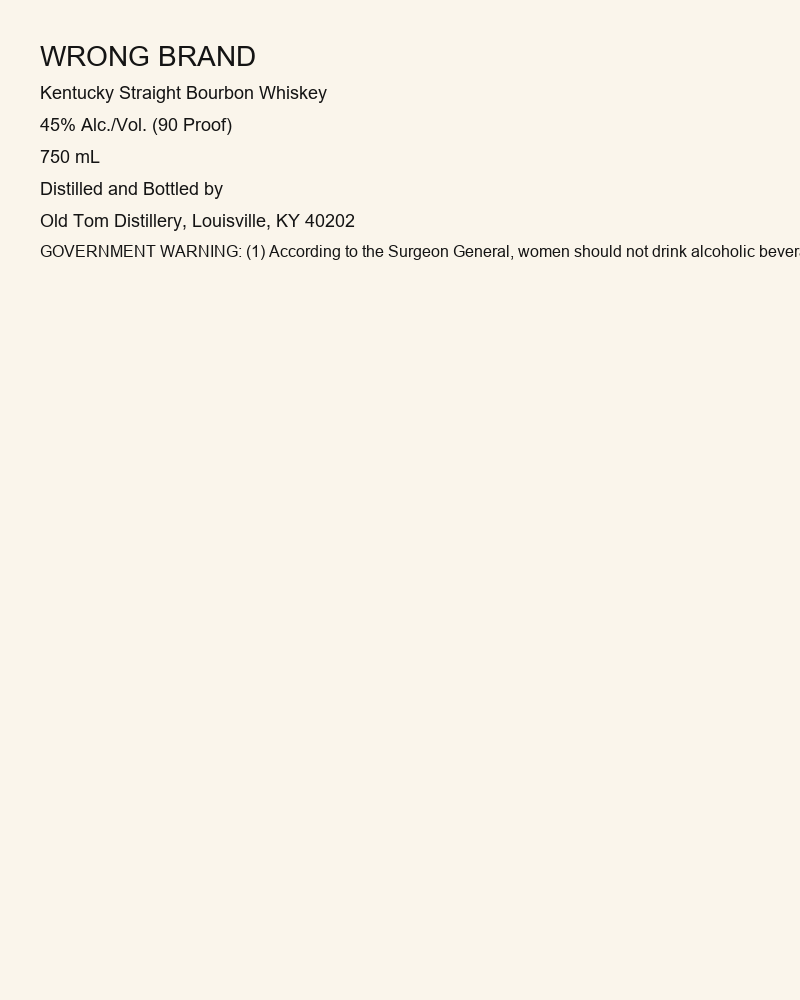
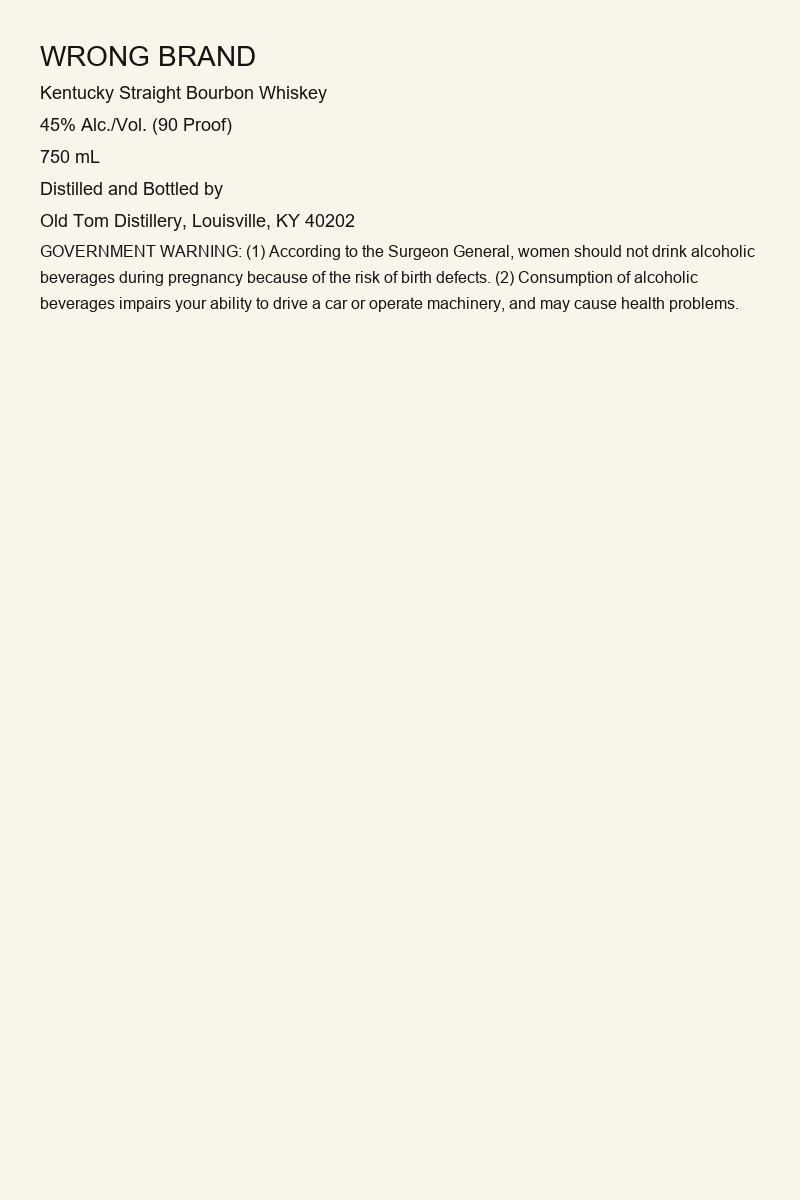
fix: wrap label warning text for production Tesseract OCR
Regenerate fixture PNGs with word-wrapped government warning lines so Render Tesseract captures full text. Move CI workflow to repo root .github/workflows so GitHub Actions runs on push.

Changed region(s): [[0.0312, 0.031, 1.0, 0.279]]

diff --git a/app/scripts/generate_fixtures.py b/app/scripts/generate_fixtures.py
@@ -32,17 +32,39 @@ def _font(size: int):
         return ImageFont.load_default()
 
 
-def draw_label(lines: list[str], path: Path, width: int = 800, height: int = 1000) -> None:
+def _wrap_line(line: str, font: ImageFont.FreeTypeFont | ImageFont.ImageFont, draw: ImageDraw.ImageDraw, max_width: int) -> list[str]:
+    words = line.split()
+    if not words:
+        return [line]
+    wrapped: list[str] = []
+    current = words[0]
+    for word in words[1:]:
+        candidate = f"{current} {word}"
+        bbox = draw.textbbox((0, 0), candidate, font=font)
+        if bbox[2] - bbox[0] <= max_width:
+            current = candidate
+        else:
+            wrapped.append(current)
+            current = word
+    wrapped.append(current)
+    return wrapped
+
+
+def draw_label(lines: list[str], path: Path, width: int = 800, height: int = 1200) -> None:
     img = Image.new("RGB", (width, height), color=(250, 245, 235))
     draw = ImageDraw.Draw(img)
-    y = 40
+    margin = 40
+    max_text_width = width - (margin * 2)
+    y = margin
     for i, line in enumerate(lines):
         size = 28 if i == 0 else 18
         if line.startswith("GOVERNMENT WARNING"):
             size = 16
         font = _font(size)
-        draw.text((40, y), line, fill=(20, 20, 20), font=font)
-        y += size + 14
+        for wrapped in _wrap_line(line, font, draw, max_text_width):
+            draw.text((margin, y), wrapped, fill=(20, 20, 20), font=font)
+            y += size + 10
+        y += 4
     path.parent.mkdir(parents=True, exist_ok=True)
     img.save(path, format="PNG")
 

diff --git a/DELIVERABLES_PROOF.md b/DELIVERABLES_PROOF.md
@@ -90,7 +90,7 @@ Observed on 2026-06-09: `200 failed 7 3902.4` — API healthy; `government_warni
 | RAG corpus | [`app/src/rag/corpus/`](app/src/rag/corpus/) | TTB field guidance as markdown for grounding |
 | OCR adapters | [`app/src/adapters/ocr/`](app/src/adapters/ocr/) | Tesseract (default), Azure, sidecar fallback |
 | React UI | [`app/ui/src/App.tsx`](app/ui/src/App.tsx) | Single + batch tabs, side-by-side verdict table |
-| CI | [`app/.github/workflows/ci.yml`](app/.github/workflows/ci.yml) | pytest + eval datasets + **fail on regression** |
+| CI | [`.github/workflows/ci.yml`](.github/workflows/ci.yml) | pytest + eval datasets + **fail on regression** |
 
 ### 1.2 Deliverable 2 — Deployed application URL
 
@@ -224,7 +224,7 @@ pytest tests/ -v          # 9 tests: 4 rules + 5 eval metric helpers
 python evals/runners/run_eval_suite.py
 ```
 
-**CI pipeline** ([`app/.github/workflows/ci.yml`](app/.github/workflows/ci.yml)):
+**CI pipeline** ([`.github/workflows/ci.yml`](.github/workflows/ci.yml)):
 
 1. `generate_fixtures.py`
 2. `generate_eval_datasets.py`

diff --git a/DELIVERABLES.md b/DELIVERABLES.md
@@ -184,7 +184,7 @@ Use this before you submit the interview.
 
 - [x] ≤ ~5 s per label validated on representative samples (note test conditions in README) — eval suite + `elapsed_ms`  
 - [x] Batch upload tested at non-trivial volume — production batch smoke + 30-item `batch_manifest.json`; architecture supports 200–300 via async API ([DELIVERABLES_PROOF.md](DELIVERABLES_PROOF.md) §2.4)
-- [x] 30 golden evals with CI regression gate — [`app/evals/`](app/evals/), [`app/.github/workflows/ci.yml`](app/.github/workflows/ci.yml); **9** pytest tests (4 rules + 5 eval metric helpers)
+- [x] 30 golden evals with CI regression gate — [`app/evals/`](app/evals/), [`.github/workflows/ci.yml`](.github/workflows/ci.yml); **9** pytest tests (4 rules + 5 eval metric helpers)
 - [x] Government warning rule demonstrated (including rejection of wrong-case warning if feasible) — `test_warning_title_case_rejected` in [`app/tests/test_rules.py`](app/tests/test_rules.py)  
 - [x] Standalone — no COLA references as runtime dependency  
 

diff --git a/app/README.md b/app/README.md
@@ -152,7 +152,7 @@ pytest tests/ -v          # 9 tests: test_rules.py (4) + test_eval_metrics.py (5
 python evals/runners/run_eval_suite.py
 ```
 
-The eval suite reports aggregate and **per-field** golden accuracy (`field_accuracy_by_field`), summary accuracy, adversarial warning recall, false-pass rate, RAG hit rate (`rag_hit_rate_by_field`), and P95 latency. CI fails on golden/summary/adversarial regression ([`.github/workflows/ci.yml`](.github/workflows/ci.yml)).
+The eval suite reports aggregate and **per-field** golden accuracy (`field_accuracy_by_field`), summary accuracy, adversarial warning recall, false-pass rate, RAG hit rate (`rag_hit_rate_by_field`), and P95 latency. CI fails on golden/summary/adversarial regression ([`../.github/workflows/ci.yml`](../.github/workflows/ci.yml)).
 
 ## Regenerate eval data
 

diff --git a/README.md b/README.md
@@ -51,7 +51,7 @@ Batch verify routes through the factory graph when `USE_FACTORY_GRAPH=true` (sin
 | **Eval discipline** | 30 golden + adversarial + RAG suites; CI fails on regression | [`app/evals/`](app/evals/) |
 | **RAG grounding** | TTB field corpus (markdown); optional Chroma | [`app/src/rag/corpus/`](app/src/rag/corpus/) |
 | **Ports & adapters** | Swappable OCR (Tesseract / Azure / sidecar fallback) | [`app/src/adapters/ocr/`](app/src/adapters/ocr/) |
-| **Production path** | Docker, Render Blueprint, GitHub Actions CI | [`render.yaml`](render.yaml), [`app/.github/workflows/ci.yml`](app/.github/workflows/ci.yml) |
+| **Production path** | Docker, Render Blueprint, GitHub Actions CI | [`render.yaml`](render.yaml), [`.github/workflows/ci.yml`](.github/workflows/ci.yml) |
 
 ---
 
